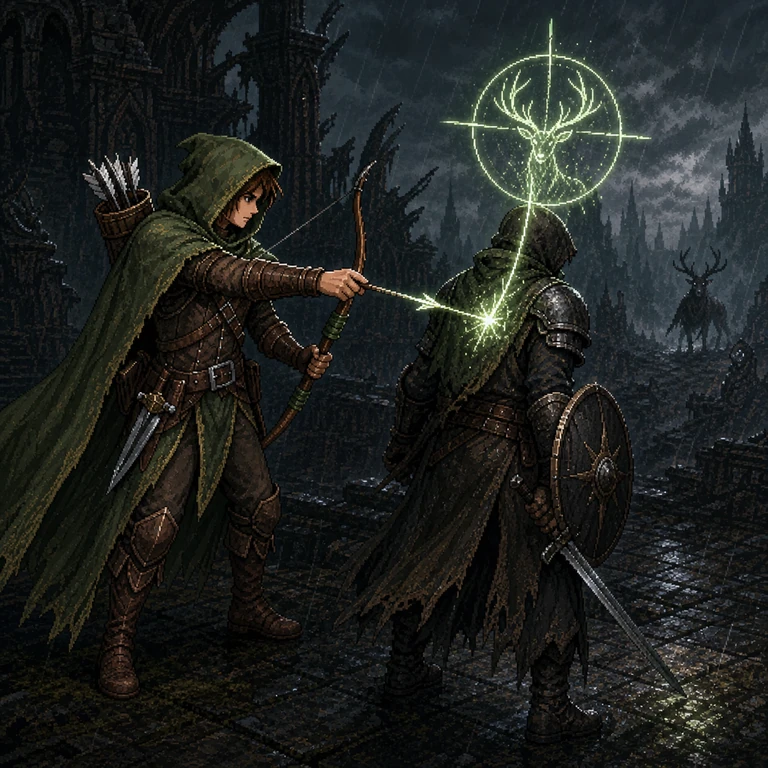
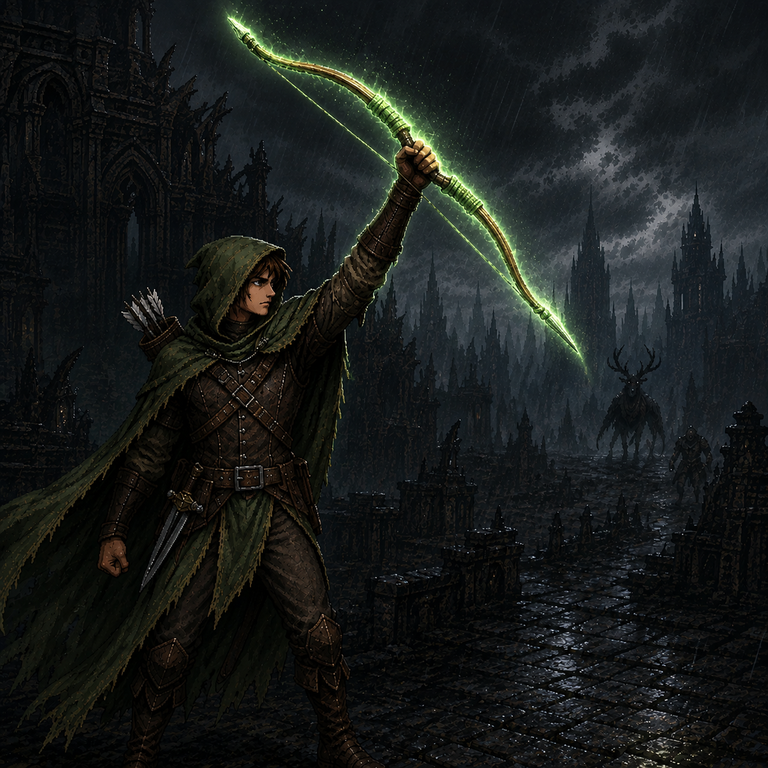
feat: add CardArtworkViewer component and integrate with CardFace and CardHoverPreview for enhanced artwork viewing

diff --git a/app/globals.css b/app/globals.css
@@ -8471,7 +8471,7 @@ button:disabled :where(span, small, strong, b, p),
   top: 76.8%;
   left: 5.3%;
   width: 89.4%;
-  height: 19.25%;
+  height: 15%;
   display: grid;
   grid-template-rows: repeat(var(--result-row-count), minmax(0, 1fr));
   overflow: hidden;
@@ -8563,8 +8563,9 @@ button:disabled :where(span, small, strong, b, p),
 .gothic-card-gem {
   position: absolute;
   z-index: 45;
+  top: 74.8%;
   left: 47%;
-  bottom: .8%;
+  bottom: auto;
   width: 6%;
   aspect-ratio: 1;
   border: .48cqw solid #9a682c;
@@ -8589,6 +8590,122 @@ button:disabled :where(span, small, strong, b, p),
 .gothic-card .effect-number.heal { color: #62b862; }
 .gothic-card .effect-number.shield { color: #539bd0; }
 .gothic-card .effect-number.speed { color: #e5b433; }
+
+.gothic-card-view-image {
+  position: absolute;
+  z-index: 52;
+  top: 92.4%;
+  right: auto;
+  bottom: auto;
+  left: 3.4%;
+  width: 93.2%;
+  min-height: 0;
+  height: 5.3%;
+  box-sizing: border-box;
+  padding: 3px 2cqw;
+  display: flex;
+  align-items: center;
+  justify-content: center;
+  gap: 1.6cqw;
+  color: #ebd9b7 !important;
+  border: .42cqw solid #a8742d;
+  background: linear-gradient(180deg, #2b2118, #0b0908 72%);
+  box-shadow: inset 0 0 0 .4cqw #120b07, 0 .7cqw 0 #020202;
+  font: 800 clamp(7px, 3.15cqw, 11px)/1 var(--pixel-font) !important;
+  letter-spacing: .08em;
+  text-shadow: .35cqw .35cqw 0 #000;
+  text-transform: none;
+  white-space: nowrap;
+  pointer-events: auto;
+  cursor: pointer;
+  clip-path: polygon(4% 0, 96% 0, 100% 28%, 100% 72%, 96% 100%, 4% 100%, 0 72%, 0 28%);
+}
+.gothic-card-view-image > span { min-width: 0; font: inherit !important; white-space: nowrap; }
+.gothic-card-view-image svg { width: 3.7cqw; height: 3.7cqw; stroke-width: 2.2; }
+.gothic-card-view-image:hover,
+.gothic-card-view-image:focus-visible {
+  color: #fff1cf !important;
+  border-color: #e4b65d;
+  background: linear-gradient(180deg, #4b3520, #130d09 72%);
+  outline: .55cqw solid rgba(239, 190, 94, .5);
+  outline-offset: .3cqw;
+}
+.gothic-card-view-image[aria-disabled="true"] { opacity: .42; cursor: not-allowed; }
+
+.card-artwork-viewer-backdrop {
+  position: fixed;
+  z-index: 1600;
+  inset: 0;
+  display: grid;
+  place-items: center;
+  box-sizing: border-box;
+  padding: clamp(12px, 3vw, 32px);
+  background: rgba(2, 3, 5, .9);
+  backdrop-filter: blur(12px);
+}
+
+.card-artwork-viewer-panel {
+  width: min(1080px, 100%);
+  max-height: calc(100dvh - 24px);
+  box-sizing: border-box;
+  padding: clamp(12px, 2vw, 20px);
+  display: grid;
+  grid-template-rows: auto minmax(0, 1fr);
+  gap: 12px;
+  overflow: hidden;
+  color: #f1e2ca;
+  border: 2px solid #b98234;
+  background: #08090b;
+  box-shadow: 0 0 0 3px #27170b, 0 26px 80px rgba(0, 0, 0, .82);
+  font-family: var(--pixel-font);
+  clip-path: polygon(0 12px, 12px 12px, 12px 0, calc(100% - 12px) 0, calc(100% - 12px) 12px, 100% 12px, 100% calc(100% - 12px), calc(100% - 12px) calc(100% - 12px), calc(100% - 12px) 100%, 12px 100%, 12px calc(100% - 12px), 0 calc(100% - 12px));
+}
+
+.card-artwork-viewer-panel > header {
+  min-width: 0;
+  display: flex;
+  align-items: center;
+  justify-content: space-between;
+  gap: 16px;
+}
+.card-artwork-viewer-panel > header small { color: #c79c52; font-size: 11px; letter-spacing: .12em; }
+.card-artwork-viewer-panel > header h2 { margin: 3px 0 0; color: #f3e6d1; font: 500 clamp(24px, 4vw, 38px)/1 Georgia, "Times New Roman", serif; }
+.card-artwork-viewer-close {
+  width: 42px;
+  height: 42px;
+  flex: 0 0 auto;
+  display: grid;
+  place-items: center;
+  color: #ead8b8;
+  border: 1px solid #8d622a;
+  background: #17110d;
+  cursor: pointer;
+}
+.card-artwork-viewer-close:hover,
+.card-artwork-viewer-close:focus-visible { color: #fff; border-color: #dfb25d; outline: 2px solid rgba(223, 178, 93, .5); }
+.card-artwork-viewer-close svg { width: 22px; height: 22px; }
+
+.card-artwork-viewer-frame {
+  min-width: 0;
+  min-height: 0;
+  display: grid;
+  place-items: center;
+  overflow: auto;
+  background:
+    linear-gradient(45deg, rgba(255, 255, 255, .018) 25%, transparent 25% 75%, rgba(255, 255, 255, .018) 75%),
+    #030405;
+  background-size: 16px 16px;
+  border: 1px solid rgba(192, 140, 58, .42);
+}
+.card-artwork-viewer-image {
+  display: block;
+  width: auto;
+  height: auto;
+  max-width: 100%;
+  max-height: calc(100dvh - 142px);
+  object-fit: contain;
+  image-rendering: pixelated;
+}
 
 .gothic-card.card-preview-click-trigger:not(:disabled) { cursor: pointer; }
 
@@ -8915,6 +9032,18 @@ button:disabled :where(span, small, strong, b, p),
 }
 .world-event-choice-card-grid { grid-auto-columns: 270px; align-items: start; }
 
+@media (min-width: 1600px) and (min-height: 900px) {
+  .action-hand { --hand-card-width: min(300px, calc((100% - 48px) / 4)); }
+  .lobby-skill-deck { grid-template-columns: repeat(2, minmax(0, 310px)) !important; }
+  .character-deck-panel .public-character-deck > div:last-child,
+  .public-character-deck > div:last-child { grid-template-columns: repeat(2, minmax(0, 310px)); }
+  .public-deck-card.gothic-card { max-width: 310px; }
+  .pile-card-grid { grid-template-columns: repeat(2, minmax(0, 310px)); }
+  .pile-review-card.gothic-card { max-width: 310px; }
+  .history-card-detail.gothic-card { width: min(400px, calc(100vw - 56px)); max-width: 400px; }
+  .world-event-choice-card-grid { grid-auto-columns: 310px; }
+}
+
 @media (max-width: 900px) {
   .action-hand { --hand-card-width: min(240px, calc((100% - 48px) / 4)); }
   .character-deck-panel .public-character-deck > div:last-child,
@@ -8922,10 +9051,15 @@ button:disabled :where(span, small, strong, b, p),
 }
 
 @media (min-width: 2200px) and (min-height: 1200px) {
-  .lobby-skill-deck { grid-template-columns: repeat(3, minmax(0, 260px)) !important; }
+  .action-hand { --hand-card-width: min(330px, calc((100% - 48px) / 4)); }
+  .lobby-skill-deck { grid-template-columns: repeat(3, minmax(0, 324px)) !important; }
   .character-deck-panel .public-character-deck > div:last-child,
-  .public-character-deck > div:last-child { grid-template-columns: repeat(3, minmax(0, 260px)); }
-  .pile-card-grid { grid-template-columns: repeat(3, minmax(0, 260px)); }
+  .public-character-deck > div:last-child { grid-template-columns: repeat(3, minmax(0, 324px)); }
+  .public-deck-card.gothic-card { max-width: 324px; }
+  .pile-card-grid { grid-template-columns: repeat(3, minmax(0, 324px)); }
+  .pile-review-card.gothic-card { max-width: 324px; }
+  .history-card-detail.gothic-card { width: min(440px, calc(100vw - 56px)); max-width: 440px; }
+  .world-event-choice-card-grid { grid-auto-columns: 324px; }
 }
 
 @media (max-width: 720px) {

diff --git a/ui/components/CardArtworkViewer.tsx b/ui/components/CardArtworkViewer.tsx
@@ -1,0 +1,86 @@
+"use client";
+
+import { Eye, X } from "lucide-react";
+import type { KeyboardEvent as ReactKeyboardEvent, MouseEvent as ReactMouseEvent } from "react";
+import { useEffect, useId, useRef } from "react";
+import { createPortal } from "react-dom";
+import type { CardArtwork } from "../cardArtwork";
+
+type Props = {
+  artwork: CardArtwork;
+  cardName: string;
+  onOpenChange: (open: boolean) => void;
+  open: boolean;
+};
+
+export function CardArtworkViewer({ artwork, cardName, onOpenChange, open }: Props) {
+  const titleId = useId();
+  const closeRef = useRef<HTMLButtonElement>(null);
+  const triggerRef = useRef<HTMLSpanElement>(null);
+
+  useEffect(() => {
+    if (!open) return;
+    const previouslyFocused = document.activeElement instanceof HTMLElement ? document.activeElement : null;
+    const focusFrame = window.requestAnimationFrame(() => closeRef.current?.focus({ preventScroll: true }));
+    const closeWithEscape = (event: KeyboardEvent) => {
+      if (event.key === "Escape") onOpenChange(false);
+    };
+    document.addEventListener("keydown", closeWithEscape);
+    return () => {
+      window.cancelAnimationFrame(focusFrame);
+      document.removeEventListener("keydown", closeWithEscape);
+      if (previouslyFocused?.isConnected) previouslyFocused.focus({ preventScroll: true });
+    };
+  }, [onOpenChange, open]);
+
+  const openViewer = (event: ReactMouseEvent<HTMLElement>) => {
+    event.preventDefault();
+    event.stopPropagation();
+    if (artwork.scene) onOpenChange(true);
+  };
+  const openWithKeyboard = (event: ReactKeyboardEvent<HTMLElement>) => {
+    if (event.key !== "Enter" && event.key !== " ") return;
+    event.preventDefault();
+    event.stopPropagation();
+    if (artwork.scene) onOpenChange(true);
+  };
+  const keepFocusInViewer = (event: ReactKeyboardEvent<HTMLElement>) => {
+    if (event.key !== "Tab") return;
+    event.preventDefault();
+    closeRef.current?.focus({ preventScroll: true });
+  };
+
+  const portalRoot = open && artwork.scene && typeof document !== "undefined" ? document.body : null;
+
+  return <>
+    <span
+      ref={triggerRef}
+      className="gothic-card-view-image"
+      role="button"
+      tabIndex={artwork.scene ? 0 : -1}
+      aria-disabled={!artwork.scene}
+      aria-haspopup="dialog"
+      aria-label={`View full illustration for ${cardName}`}
+      onClickCapture={openViewer}
+      onKeyDownCapture={openWithKeyboard}
+    ><Eye aria-hidden="true"/><span>View Image</span></span>
+    {portalRoot && createPortal(<div className="card-artwork-viewer-backdrop" onClick={() => onOpenChange(false)}>
+      <section
+        className="card-artwork-viewer-panel"
+        role="dialog"
+        aria-modal="true"
+        aria-labelledby={titleId}
+        onClick={(event) => event.stopPropagation()}
+        onKeyDown={keepFocusInViewer}
+      >
+        <header>
+          <div><small>FULL ILLUSTRATION</small><h2 id={titleId}>{cardName}</h2></div>
+          <button ref={closeRef} type="button" className="card-artwork-viewer-close" onClick={() => onOpenChange(false)} aria-label="Close full illustration"><X/></button>
+        </header>
+        <div className="card-artwork-viewer-frame">
+          <img className="card-artwork-viewer-image" src={artwork.scene} alt={artwork.alt} decoding="async" draggable={false}/>
+        </div>
+      </section>
+    </div>, portalRoot)}
+  </>;
+}

diff --git a/ui/components/CardFace.tsx b/ui/components/CardFace.tsx
@@ -2,12 +2,13 @@
 
 import { Check, Crown, X } from "lucide-react";
 import type { CSSProperties, ReactNode } from "react";
-import { useRef } from "react";
+import { useCallback, useRef, useState } from "react";
 import { describeCardFailure, describeCardSuccess, getCardEffectLabel } from "@/shared/cardRules";
 import type { ActionCard } from "@/shared/types";
 import { getCardArtwork } from "../cardArtwork";
 import { CardDescription } from "./CardDescription";
 import { CardEffectIcon } from "./CardEffectIcon";
+import { CardArtworkViewer } from "./CardArtworkViewer";
 import { CardHoverPreview } from "./CardHoverPreview";
 import { PityCostBadge } from "./PityCost";
 import { TruncatedEffectText } from "./TruncatedEffectText";
@@ -36,6 +37,8 @@ export function CardFace({ card, contextLabel, pityCostOverride, previewTrigger 
   const artwork = getCardArtwork(card);
   const rows = resultRows ?? defaultRows(card);
   const faceRef = useRef<HTMLDivElement>(null);
+  const [artworkViewerOpen, setArtworkViewerOpen] = useState(false);
+  const changeArtworkViewer = useCallback((open: boolean) => setArtworkViewerOpen(open), []);
 
   return <><div ref={faceRef} className="gothic-card-face" data-card-id={card.id} data-card-name={card.name} data-rarity={card.unique ? "special" : "common"}>
     <div className="gothic-card-art" data-target={artwork.target} data-art-kind={artwork.kind}>
@@ -60,6 +63,7 @@ export function CardFace({ card, contextLabel, pityCostOverride, previewTrigger 
         <TruncatedEffectText className="gothic-card-result-text" maxLines={2} text={row.result} card={card}/>
       </div>)}
     </div>
+    <CardArtworkViewer artwork={artwork} cardName={card.name} open={artworkViewerOpen} onOpenChange={changeArtworkViewer}/>
     <div className="gothic-card-gem" aria-hidden="true"/>
-  </div><CardHoverPreview anchorRef={faceRef} artwork={artwork} card={card} pityCostOverride={pityCostOverride} rows={rows} trigger={previewTrigger}/></>;
+  </div><CardHoverPreview anchorRef={faceRef} artwork={artwork} card={card} pityCostOverride={pityCostOverride} rows={rows} suspended={artworkViewerOpen} trigger={previewTrigger}/></>;
 }

diff --git a/ui/components/CardHoverPreview.tsx b/ui/components/CardHoverPreview.tsx
@@ -19,6 +19,7 @@ type Props = {
   card: ActionCard;
   pityCostOverride?: number;
   rows: CardResultRow[];
+  suspended: boolean;
   trigger: "click" | "hover";
 };
 
@@ -31,11 +32,15 @@ type PreviewPosition = {
 
 const hiddenPosition: PreviewPosition = { left: -10000, placement: "top", ready: false, top: -10000 };
 
-export function CardHoverPreview({ anchorRef, artwork, card, pityCostOverride, rows, trigger }: Props) {
+export function CardHoverPreview({ anchorRef, artwork, card, pityCostOverride, rows, suspended, trigger }: Props) {
   const [open, setOpen] = useState(false);
   const [position, setPosition] = useState<PreviewPosition>(hiddenPosition);
   const tooltipRef = useRef<HTMLElement>(null);
   const tooltipId = useId();
+
+  useEffect(() => {
+    if (suspended) setOpen(false);
+  }, [suspended]);
 
   useEffect(() => {
     const anchor = anchorRef.current?.closest<HTMLElement>(".gothic-card");
